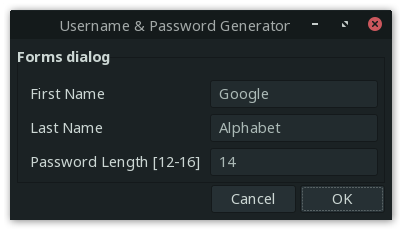
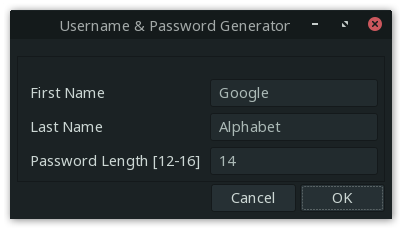
updated

diff --git a/username_password_generator.py b/username_password_generator.py
@@ -32,7 +32,7 @@ def password_generator(username,length):
     return password
 
 def username_password_generator():
-    result = subprocess.Popen('zenity --forms --title="Username & Password Generator" \
+    result = subprocess.Popen('zenity --forms --title="Username & Password Generator" --text="" \
                               --add-entry="First Name" \
                               --add-entry="Last Name" \
                               --add-entry="Password Length [12-16]"', shell=True, stdout=subprocess.PIPE, universal_newlines=True)
